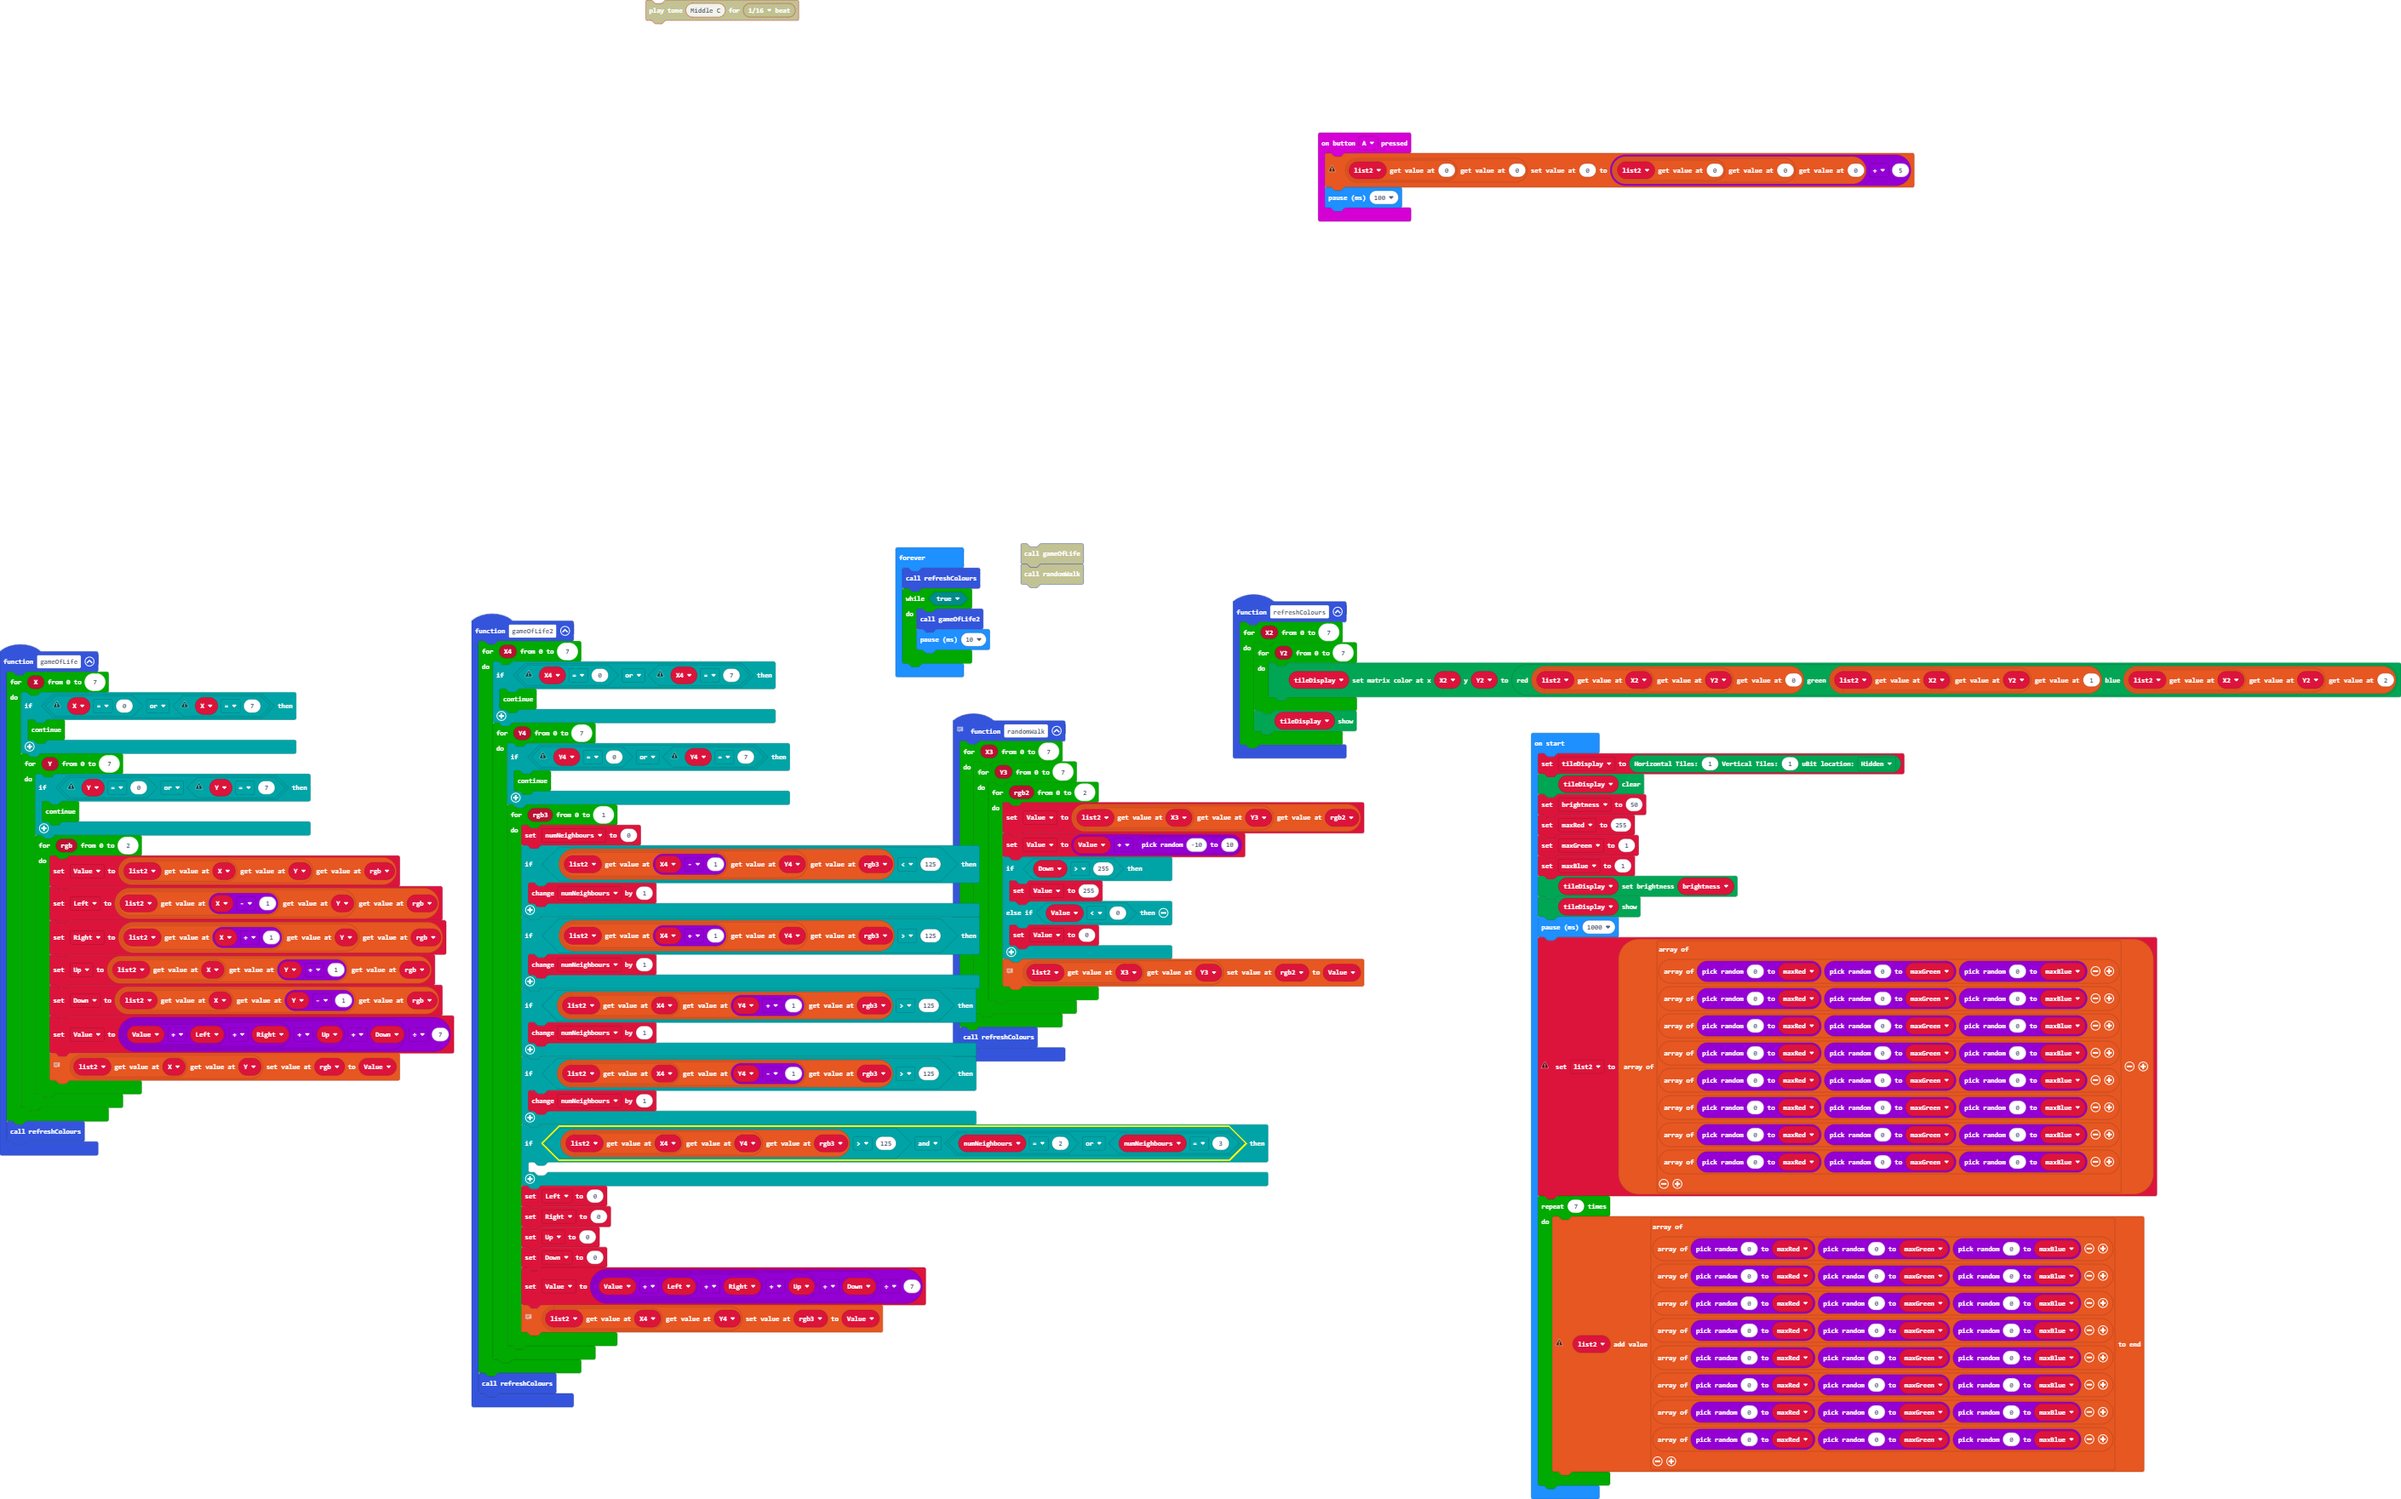
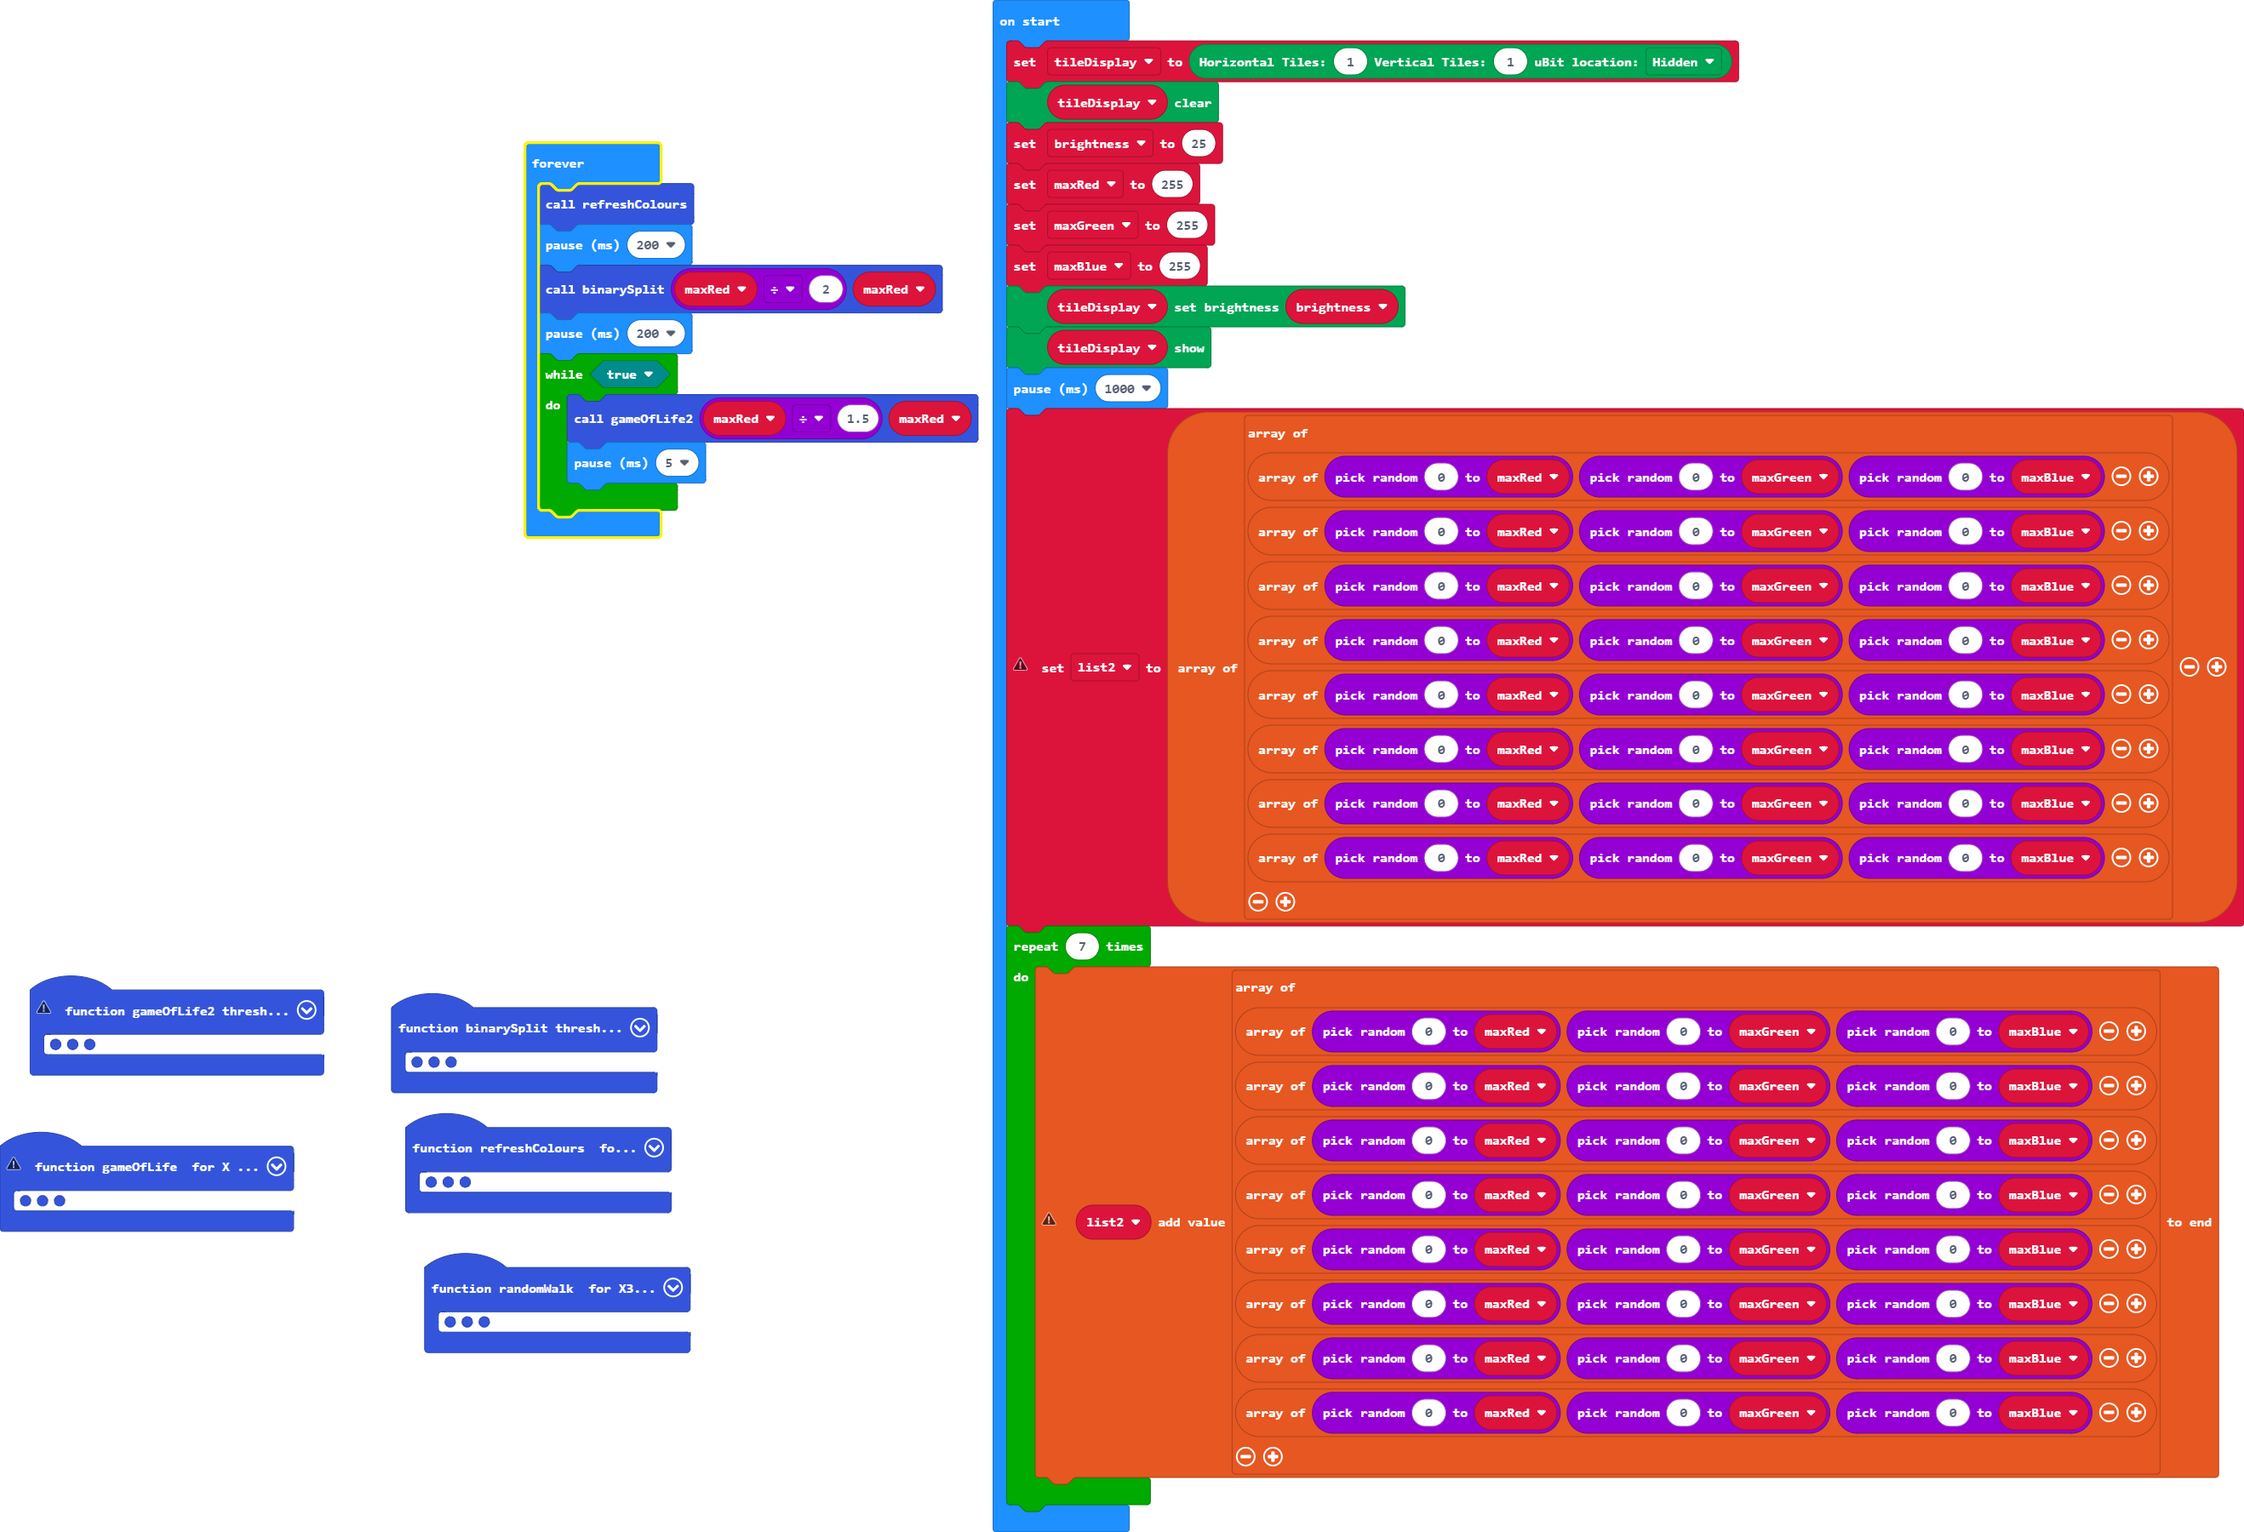
Working game of life with 3 colours

diff --git a/main.ts b/main.ts
@@ -28,6 +28,12 @@ function gameOfLife() {
                 Value = (Value + Left + Right + Up + Down) / 7
                 //  Update the RGB value in the reference array
                 //  Update the RGB value in the reference array
+                //  Update the RGB value in the reference array
+                //  Update the RGB value in the reference array
+                //  Update the RGB value in the reference array
+                //  Update the RGB value in the reference array
+                //  Update the RGB value in the reference array
+                //  Update the RGB value in the reference array
                 list2[X][Y][rgb] = Value
             }
         }
@@ -51,6 +57,12 @@ function randomWalk() {
                 
                 //  Update the RGB value in the reference array
                 //  Update the RGB value in the reference array
+                //  Update the RGB value in the reference array
+                //  Update the RGB value in the reference array
+                //  Update the RGB value in the reference array
+                //  Update the RGB value in the reference array
+                //  Update the RGB value in the reference array
+                //  Update the RGB value in the reference array
                 list2[X3][Y3][rgb2] = Value
             }
         }
@@ -58,52 +70,75 @@ function randomWalk() {
     refreshColours()
 }
 
-input.onButtonPressed(Button.A, function on_button_pressed_a() {
-    list2[0][0][0] = list2[0][0][0] + 5
-    basic.pause(100)
-})
-function gameOfLife2() {
+function binarySplit(threshold: number, max2: number) {
+    
+    for (let X32 = 0; X32 < 8; X32++) {
+        for (let Y32 = 0; Y32 < 8; Y32++) {
+            for (let rgb22 = 0; rgb22 < 3; rgb22++) {
+                Value = list2[X32][Y32][rgb22]
+                if (Value > threshold) {
+                    Value = max2
+                } else {
+                    Value = 0
+                }
+                
+                //  Update the RGB value in the reference array
+                //  Update the RGB value in the reference array
+                //  Update the RGB value in the reference array
+                //  Update the RGB value in the reference array
+                //  Update the RGB value in the reference array
+                //  Update the RGB value in the reference array
+                //  Update the RGB value in the reference array
+                //  Update the RGB value in the reference array
+                list2[X32][Y32][rgb22] = Value
+            }
+        }
+    }
+    refreshColours()
+}
+
+function gameOfLife2(threshold2: number, max3: number) {
     
     for (let X4 = 0; X4 < 8; X4++) {
-        if (X4 == 0 || X4 == 7) {
-            continue
-        }
-        
         for (let Y4 = 0; Y4 < 8; Y4++) {
-            if (Y4 == 0 || Y4 == 7) {
-                continue
-            }
-            
-            for (let rgb3 = 0; rgb3 < 2; rgb3++) {
+            for (let rgb3 = 0; rgb3 < 3; rgb3++) {
                 numNeighbours = 0
-                if (list2[X4 - 1][Y4][rgb3] < 125) {
-                    numNeighbours += 1
+                if (X4 > 0) {
+                    if (list2[X4 - 1][Y4][rgb3] > threshold2) {
+                        numNeighbours += 1
+                    }
+                    
                 }
                 
-                if (list2[X4 + 1][Y4][rgb3] > 125) {
-                    numNeighbours += 1
+                if (X4 < 7) {
+                    if (list2[X4 + 1][Y4][rgb3] > threshold2) {
+                        numNeighbours += 1
+                    }
+                    
                 }
                 
-                if (list2[X4][Y4 + 1][rgb3] > 125) {
-                    numNeighbours += 1
+                if (Y4 > 0) {
+                    if (list2[X4][Y4 - 1][rgb3] > threshold2) {
+                        numNeighbours += 1
+                    }
+                    
                 }
                 
-                if (list2[X4][Y4 + 1][rgb3] > 125) {
-                    numNeighbours += 1
+                if (Y4 < 7) {
+                    if (list2[X4][Y4 + 1][rgb3] > threshold2) {
+                        numNeighbours += 1
+                    }
+                    
                 }
                 
-                if (list2[X4][Y4][rgb3] > 125) {
-                    numNeighbours += 1
+                if (list2[X4][Y4][rgb3] >= threshold2 && (numNeighbours < 2 || numNeighbours > 3)) {
+                    list2[X4][Y4][rgb3] = 0
                 }
                 
-                Left = 0
-                Right = 0
-                Up = 0
-                Down = list2[X4][Y4 - 1][rgb3]
-                Value = (Value + Left + Right + Up + Down) / 7
-                //  Update the RGB value in the reference array
-                //  Update the RGB value in the reference array
-                list2[X4][Y4][rgb3] = Value
+                if (list2[X4][Y4][rgb3] < threshold2 && (numNeighbours == 2 || numNeighbours == 3)) {
+                    list2[X4][Y4][rgb3] = max3
+                }
+                
             }
         }
     }
@@ -120,10 +155,10 @@ let list2 : number[][][] = []
 let tileDisplay : Kitronik_Zip_Tile.ZIPTileDisplay = null
 tileDisplay = Kitronik_Zip_Tile.createZIPTileDisplay(1, 1, Kitronik_Zip_Tile.UBitLocations.Hidden)
 tileDisplay.clear()
-let brightness = 50
+let brightness = 25
 let maxRed = 255
-let maxGreen = 1
-let maxBlue = 1
+let maxGreen = 255
+let maxBlue = 255
 tileDisplay.setBrightness(brightness)
 tileDisplay.show()
 basic.pause(1000)
@@ -133,8 +168,11 @@ for (let index = 0; index < 7; index++) {
 }
 basic.forever(function on_forever() {
     refreshColours()
+    basic.pause(200)
+    binarySplit(maxRed / 2, maxRed)
+    basic.pause(200)
     while (true) {
-        gameOfLife2()
-        basic.pause(10)
+        gameOfLife2(maxRed / 1.5, maxRed)
+        basic.pause(5)
     }
 })

diff --git a/main.py b/main.py
@@ -22,6 +22,12 @@ def gameOfLife():
                 Value = (Value + Left + Right + Up + Down) / 7
                 # Update the RGB value in the reference array
                 # Update the RGB value in the reference array
+                # Update the RGB value in the reference array
+                # Update the RGB value in the reference array
+                # Update the RGB value in the reference array
+                # Update the RGB value in the reference array
+                # Update the RGB value in the reference array
+                # Update the RGB value in the reference array
                 list2[X][Y][rgb] = Value
     refreshColours()
 # Adjust the RGB colour by and random amount
@@ -38,42 +44,56 @@ def randomWalk():
                     Value = 0
                 # Update the RGB value in the reference array
                 # Update the RGB value in the reference array
+                # Update the RGB value in the reference array
+                # Update the RGB value in the reference array
+                # Update the RGB value in the reference array
+                # Update the RGB value in the reference array
+                # Update the RGB value in the reference array
+                # Update the RGB value in the reference array
                 list2[X3][Y3][rgb2] = Value
     refreshColours()
-
-def on_button_pressed_a():
-    list2[0][0][0] = list2[0][0][0] + 5
-    basic.pause(100)
-input.on_button_pressed(Button.A, on_button_pressed_a)
-
-def gameOfLife2():
-    global numNeighbours, Left, Right, Up, Down, Value
+def binarySplit(threshold: number, max2: number):
+    global Value
+    for X32 in range(8):
+        for Y32 in range(8):
+            for rgb22 in range(3):
+                Value = list2[X32][Y32][rgb22]
+                if Value > threshold:
+                    Value = max2
+                else:
+                    Value = 0
+                # Update the RGB value in the reference array
+                # Update the RGB value in the reference array
+                # Update the RGB value in the reference array
+                # Update the RGB value in the reference array
+                # Update the RGB value in the reference array
+                # Update the RGB value in the reference array
+                # Update the RGB value in the reference array
+                # Update the RGB value in the reference array
+                list2[X32][Y32][rgb22] = Value
+    refreshColours()
+def gameOfLife2(threshold2: number, max3: number):
+    global numNeighbours
     for X4 in range(8):
-        if X4 == 0 or X4 == 7:
-            continue
         for Y4 in range(8):
-            if Y4 == 0 or Y4 == 7:
-                continue
-            for rgb3 in range(2):
+            for rgb3 in range(3):
                 numNeighbours = 0
-                if list2[X4 - 1][Y4][rgb3] < 125:
-                    numNeighbours += 1
-                if list2[X4 + 1][Y4][rgb3] > 125:
-                    numNeighbours += 1
-                if list2[X4][Y4 + 1][rgb3] > 125:
-                    numNeighbours += 1
-                if list2[X4][Y4 + 1][rgb3] > 125:
-                    numNeighbours += 1
-                if list2[X4][Y4][rgb3] > 125:
-                    numNeighbours += 1
-                Left = 0
-                Right = 0
-                Up = 0
-                Down = list2[X4][Y4 - 1][rgb3]
-                Value = (Value + Left + Right + Up + Down) / 7
-                # Update the RGB value in the reference array
-                # Update the RGB value in the reference array
-                list2[X4][Y4][rgb3] = Value
+                if X4 > 0:
+                    if list2[X4 - 1][Y4][rgb3] > threshold2:
+                        numNeighbours += 1
+                if X4 < 7:
+                    if list2[X4 + 1][Y4][rgb3] > threshold2:
+                        numNeighbours += 1
+                if Y4 > 0:
+                    if list2[X4][Y4 - 1][rgb3] > threshold2:
+                        numNeighbours += 1
+                if Y4 < 7:
+                    if list2[X4][Y4 + 1][rgb3] > threshold2:
+                        numNeighbours += 1
+                if list2[X4][Y4][rgb3] >= threshold2 and (numNeighbours < 2 or numNeighbours > 3):
+                    list2[X4][Y4][rgb3] = 0
+                if list2[X4][Y4][rgb3] < threshold2 and (numNeighbours == 2 or numNeighbours == 3):
+                    list2[X4][Y4][rgb3] = max3
     refreshColours()
 numNeighbours = 0
 Down = 0
@@ -85,10 +105,10 @@ list2: List[List[List[number]]] = []
 tileDisplay: Kitronik_Zip_Tile.ZIPTileDisplay = None
 tileDisplay = Kitronik_Zip_Tile.create_zip_tile_display(1, 1, Kitronik_Zip_Tile.UBitLocations.HIDDEN)
 tileDisplay.clear()
-brightness = 50
+brightness = 25
 maxRed = 255
-maxGreen = 1
-maxBlue = 1
+maxGreen = 255
+maxBlue = 255
 tileDisplay.set_brightness(brightness)
 tileDisplay.show()
 basic.pause(1000)
@@ -144,7 +164,10 @@ for index in range(7):
 
 def on_forever():
     refreshColours()
+    basic.pause(200)
+    binarySplit(maxRed / 2, maxRed)
+    basic.pause(200)
     while True:
-        gameOfLife2()
-        basic.pause(10)
+        gameOfLife2(maxRed / 1.5, maxRed)
+        basic.pause(5)
 basic.forever(on_forever)
